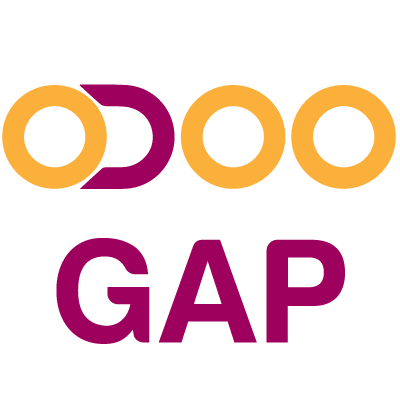
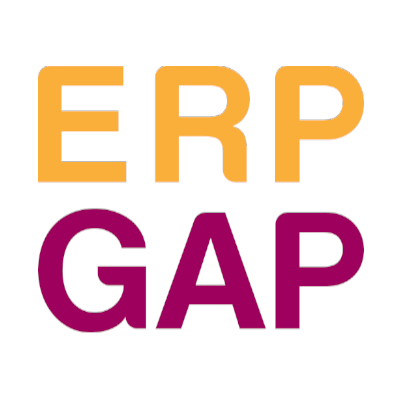
[IMP] change branding to ERPGAP

diff --git a/hmrc_mtd_client/static/description/index.html b/hmrc_mtd_client/static/description/index.html
@@ -100,7 +100,7 @@
                             <li>Login</li>
                             <li>Password</li>
                         </ul>
-                        Note: Those credentials are provided by us. <a href="https://www.odoogap.com/page/contactus/">Contact
+                        Note: Those credentials are provided by us. <a href="https://www.erpgap.com/page/contactus/">Contact
                         us</a>
                         to ask for your credentials.
                     </ul>
@@ -132,7 +132,7 @@
                             <p>
                             <ul>
                                 <li>To report a problem please <a
-                                        href="https://www.odoogap.com/page/contactus/">
+                                        href="https://www.erpgap.com/page/contactus/">
                                     contact us</a>.
                                 </li>
                             </ul>
@@ -142,8 +142,8 @@
                             <p>
                             <ul>
                                 <li>Commercial support is available, please email <a
-                                        href="info@odoogap.com">
-                                    info@odoogap.com</a> or call <a
+                                        href="info@erpgap.com">
+                                    info@erpgap.com</a> or call <a
                                         href="tel:+44 7480 538242">+44 7480 538242</a> for
                                     further information.
                                 </li>
@@ -152,7 +152,7 @@
                         </div>
                         <div class="col-sm-6 offset-sm-6">
                             <p class="logo-wrapper text-right">
-                                <a href="//odoogap.com ">
+                                <a href="https://www.erpgap.com">
                                     <img class='img-fluid' itemprop="image"
                                          class="deep-1 footer-image "
                                          style="height: 45px;box-shadow: 0 0 0 0 transparent;"

diff --git a/hmrc_mtd_client/static/js/mtd.js b/hmrc_mtd_client/static/js/mtd.js
@@ -1,4 +1,4 @@
-odoo.define('mtd.module.js', function (require) { 
+odoo.define('mtd.module.js', function (require) {
     'use strict';
 
     var Widget = require('web.Widget');
@@ -7,9 +7,10 @@ odoo.define('mtd.module.js', function (require) {
     var _t = core._t;
     var rpc = require('web.rpc');
     require('web.dom_ready');
-    
-    var mtd_js = Widget.extend({    
+
+    var mtd_js = Widget.extend({
         start: function() {
+            var window_size = 'width='+ screen.width + '&height=' + screen.height + '&colour-depth=' + screen.colorDepth + '&scaling-factor=' + 1.25;
             var screens = 'width='+ screen.width + '&height=' + screen.height + '&scaling-factor=' + screen.width/screen.height + '&colour-depth=' + screen.colorDepth;
             var window_size = 'width='+ screen.width + '&height=' + screen.height;
             var x = navigator.plugins.length;
@@ -19,7 +20,7 @@ odoo.define('mtd.module.js', function (require) {
                 txt += navigator.plugins[i].name + ",";
             }
 
-            var str = txt.toString();
+            var str = txt;
             var result= str.slice(1, -1);
             var browser_plugin = result.replace(/ /g, "%20");
 

diff --git a/hmrc_mtd_client/__manifest__.py b/hmrc_mtd_client/__manifest__.py
@@ -6,9 +6,9 @@
         Enables the user to commit HMRC VAT return to HMRC api.
     """,
     'category': 'Invoicing Management',
-    'author': "Odoogap",
+    'author': "ERPGAP",
     'licence': 'LGPL-3',
-    'website': 'https://www.odoogap.com/',
+    'website': 'https://www.erpgap.com/',
     'images': ['images/main_screenshot.png'],
     'depends': [
         'base',
@@ -36,5 +36,5 @@
     'external_dependencies': {'python': ['odoorpc', 'msgfy', 'odoogap_mtd']},
     'installable': True,
     'auto_install': False,
-    'support': 'info@odoogap.com',
+    'support': 'info@erpgap.com',
 }

diff --git a/hmrc_mtd_client/README.md b/hmrc_mtd_client/README.md
@@ -3,7 +3,7 @@
 ## Overview
 
 An Easy to use platform, dedicated to UK clients, with the single purpose of creating
-bills from your CRM Sales Order. The Odoogap CRM app is the toll you need to manage your
+bills from your CRM Sales Order. The ERPGAP CRM app is the toll you need to manage your
 team or your own sales work. With one click you can transform any Sale Order into a bill
 and therefore a Sage Invoice.
 
@@ -35,7 +35,7 @@ platform with the main objective of creating a Sage Invoice from a Sale Order.
   - Login
   - Password
   
-Note: Those credentials are provided by us. [Contact us](https://www.odoogap.com/page/contactus/) to ask for our credentials.
+Note: Those credentials are provided by us. [Contact us](https://www.erpgap.com/page/contactus/) to ask for our credentials.
 
 ## How to use
 
@@ -46,7 +46,7 @@ Is that easy!
 
 ## Support
 
-To report a problem please [contact us](https://www.odoogap.com/page/contactus/).
+To report a problem please [contact us](https://www.erpgap.com/page/contactus/).
 
-Commercial support is available, please email [info@odoogap.com](info@odoogap.com)
+Commercial support is available, please email [info@erpgap.com](info@erpgap.com)
 or call tel:+44 7480 538242 for further information.
